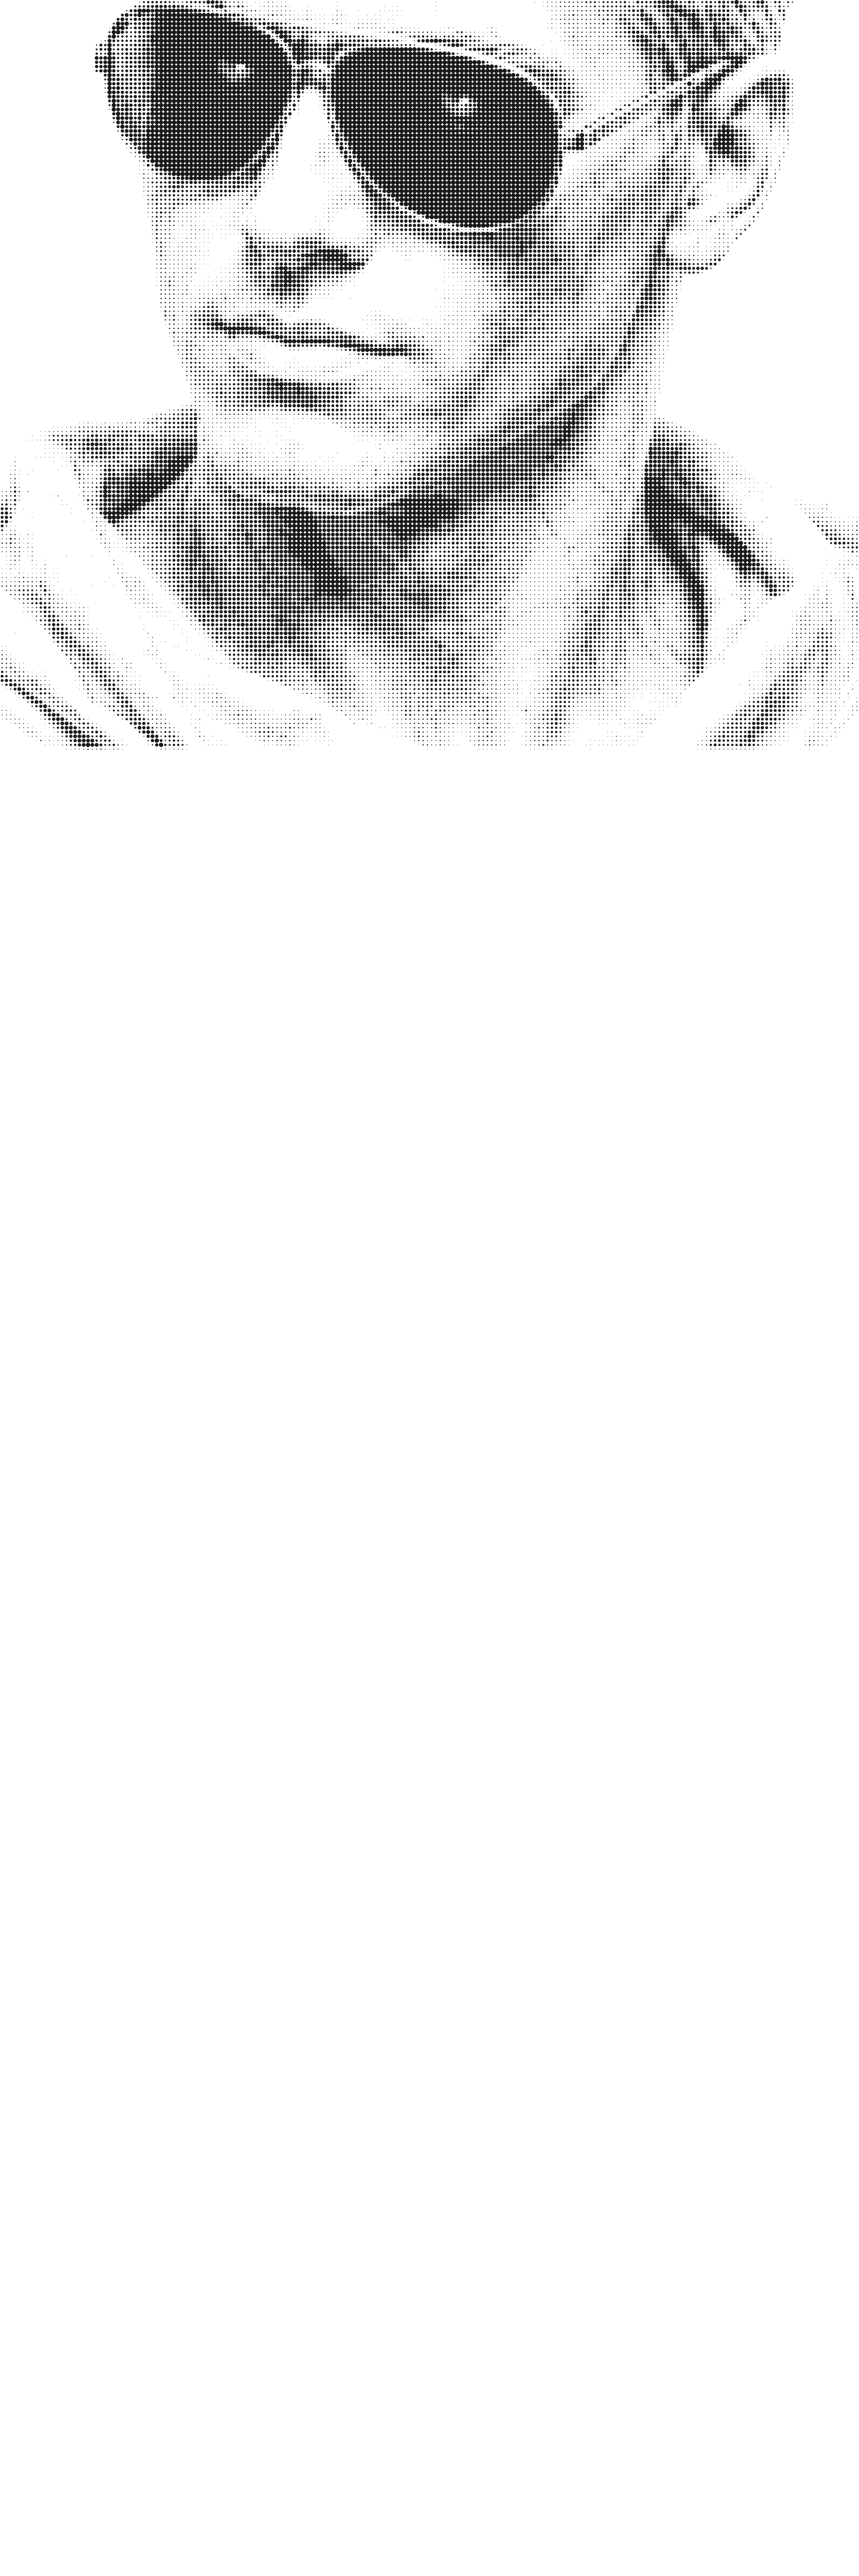
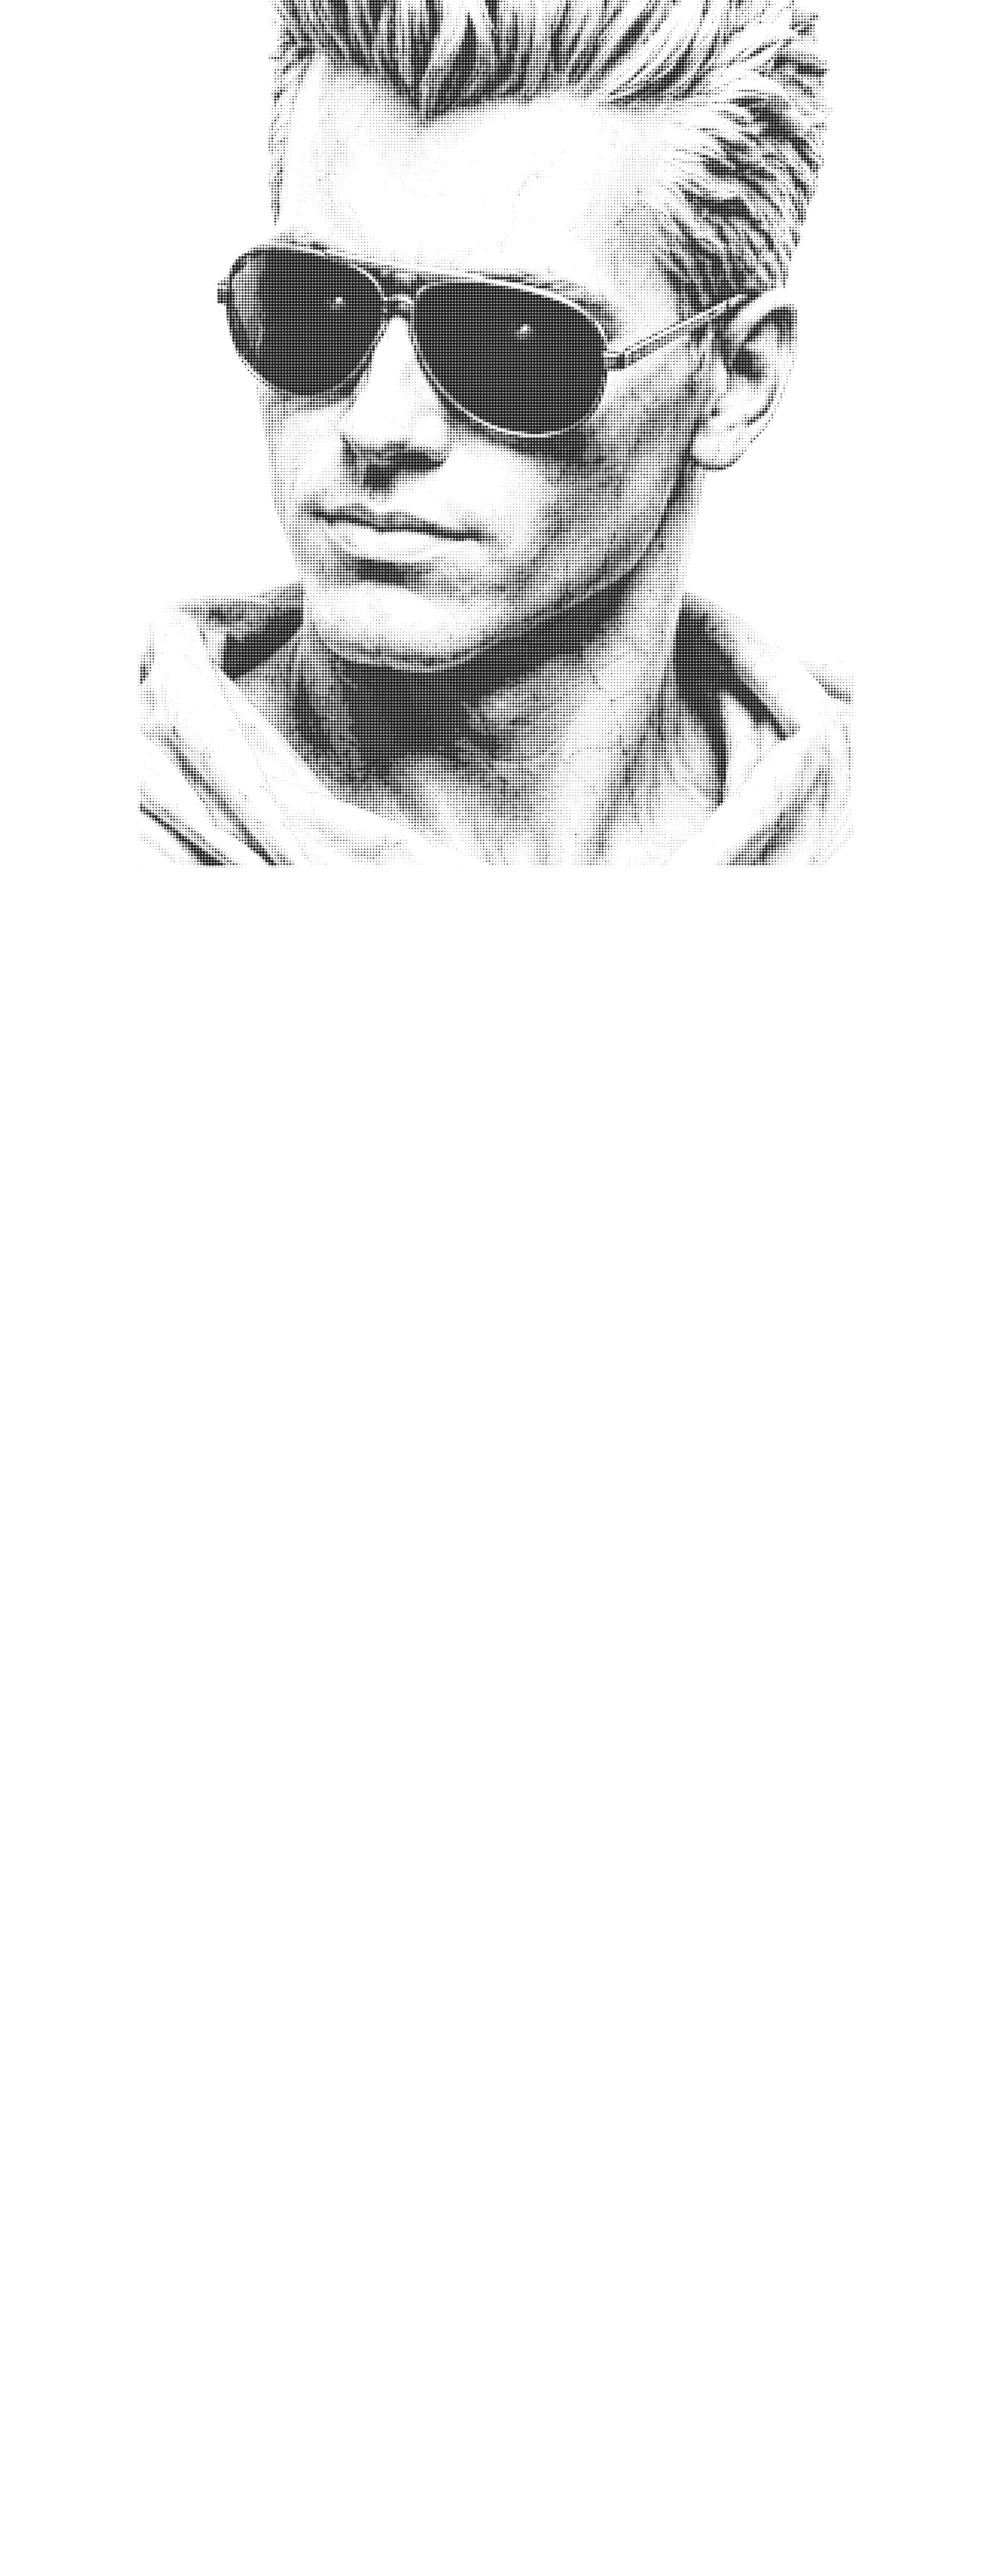
Tune halftone to model: smaller head, dropped face, gutter, lighter
- Shrink the statue (~content width) and drop it so the sunglasses sit at
  the middle of the sneak card (was up behind the headline)
- Add a stone gutter around the dot field (inset 28px) like the model
- Lighten the dots (opacity 0.45 -> 0.26) for the faint, transparent look

diff --git a/index.html b/index.html
@@ -80,24 +80,25 @@
       overflow-x: hidden;
     }
 
-    /* Riso halftone backdrop — one even, fine dot screen of the stoic
-       operator. The source PNG is deliberately TALL (statue at the top, dot
-       field baked all the way down) so background-size:cover always binds by
-       WIDTH, never the page height — which keeps the dots a fine, fixed size
-       no matter how long the page gets (height-binding was ballooning them).
-       Hair bleeds off the top so the face sits behind the headline. Scrolls
-       with the page; light opacity keeps it a backdrop under crisp content. */
+    /* Riso halftone backdrop — one even, fine, light dot screen of the stoic
+       operator, inset from the edges by a gutter (like the model). The source
+       PNG is deliberately TALL (statue at top, dot field baked down) so
+       background-size:cover binds by WIDTH, never the page height — keeping the
+       dots a fine, fixed size no matter how long the page gets. The head is
+       sized ~to the content width and dropped so the sunglasses land at the
+       middle of the sneak card. Scrolls with the page; low opacity keeps it a
+       faint backdrop under crisp content. */
     body::before {
       content: "";
       position: absolute;
-      inset: 0;
+      inset: 28px;                 /* stone gutter around the dot field */
       z-index: 0;
       pointer-events: none;
       background-image: url('assets/statue-halftone.png');
       background-repeat: no-repeat;
       background-position: center top;
       background-size: cover;
-      opacity: 0.45;
+      opacity: 0.26;
     }
 
     .container {